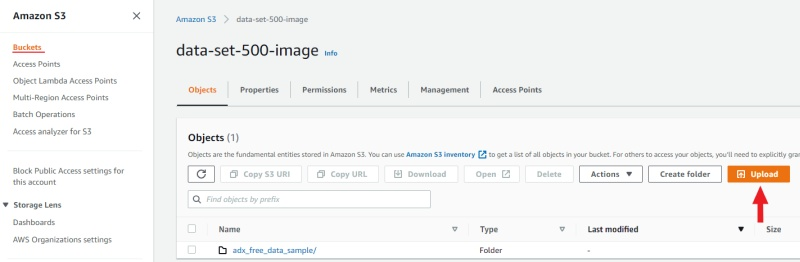
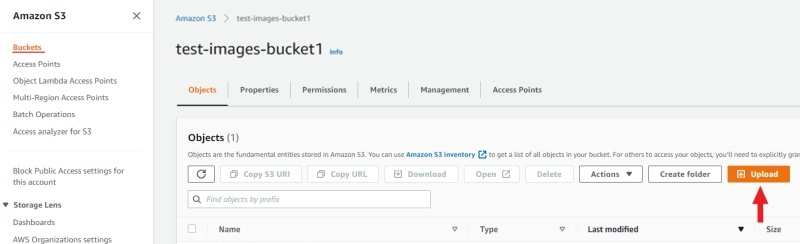
update attach cloud storage section

diff --git a/site/content/en/docs/manual/basics/attach-cloud-storage.md b/site/content/en/docs/manual/basics/attach-cloud-storage.md
@@ -53,12 +53,20 @@ they will need to be used in CVAT when adding cloud storage.
 
 ### Upload dataset
 
-Initially you need to create a manifest file for your image dataset. Information on how to do that is available
-on the [Simple command line to prepare dataset manifest file](/docs/manual/advanced/dataset_manifest) page.
-After the manifest file has been created, you can upload it and your dataset to an AWS-S3 cloud storage.
-Go to your bucket and click `Upload`, drag the manifest file and dataset on the page and click `Upload`.
+For example, let's take [The Oxford-IIIT Pet Dataset](https://www.robots.ox.ac.uk/~vgg/data/pets/):
+- Download the [archive with images](https://www.robots.ox.ac.uk/~vgg/data/pets/data/images.tar.gz).
+- Unpack the archive into the prepared folder.
+  and create a manifest file as described in [prepare manifest file section](/docs/manual/advanced/dataset_manifest/):
+```
+python <cvat repository>/utils/dataset_manifest/create.py --output-dir <yourfolder> <yourfolder>
+```
+- When the manifest file is ready, open the previously prepared bucket and click `Upload`:
 
 ![](/images/aws-s3_tutorial_5.jpg)
+
+- Drag the manifest file and dataset on the page and click `Upload`:
+
+![](/images/aws-s3_tutorial_1.gif)
 
 ## Attach new cloud storage
 
@@ -161,7 +169,7 @@ aws s3 cp <s3://bucket-name> <yourfolder> --recursive
 After copying the files, you can create a manifest file as described in [preapair manifest file section](/docs/manual/advanced/dataset_manifest/):
 
 ```
-python <cvat reposytory>/utils/dataset_manifest/create.py --output-dir <yourfolder> <yourfolder>
+python <cvat repository>/utils/dataset_manifest/create.py --output-dir <yourfolder> <yourfolder>
 ```
 
 When the manifest file is ready, you can upload it to aws s3 bucket. If you gave full write permissions
